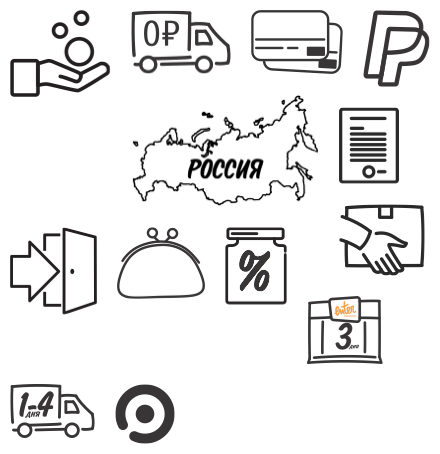
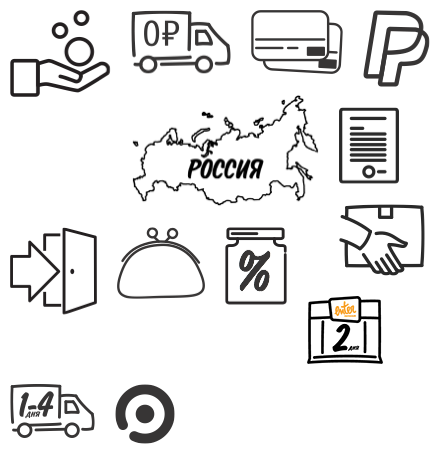
SITE-4966 Исправить срок резерва в трастфакторе на главной

Changed region(s): [[0.6795, 0.6476, 0.8864, 0.8018]]

diff --git a/main/template/main/_infoBlocks.php b/main/template/main/_infoBlocks.php
@@ -60,7 +60,7 @@
         </li>
         <li class="shopInfoTab_i">
             <div class="shopInfoTab_iconw"><div class="shopInfoTab_icon"><i class="i-shopinfo i-shopinfo-selfdelivery2"></i></div></div>
-            <div class="shopInfoTab_tx">РЕЗЕРВ ТОВАРА НА 3 ДНЯ</div>
+            <div class="shopInfoTab_tx">РЕЗЕРВ ТОВАРА НА 2 ДНЯ</div>
         </li>
         <li class="shopInfoTab_i">
             <div class="shopInfoTab_iconw"><div class="shopInfoTab_icon"><i class="i-shopinfo i-shopinfo-selfdelivery3"></i></div></div>
